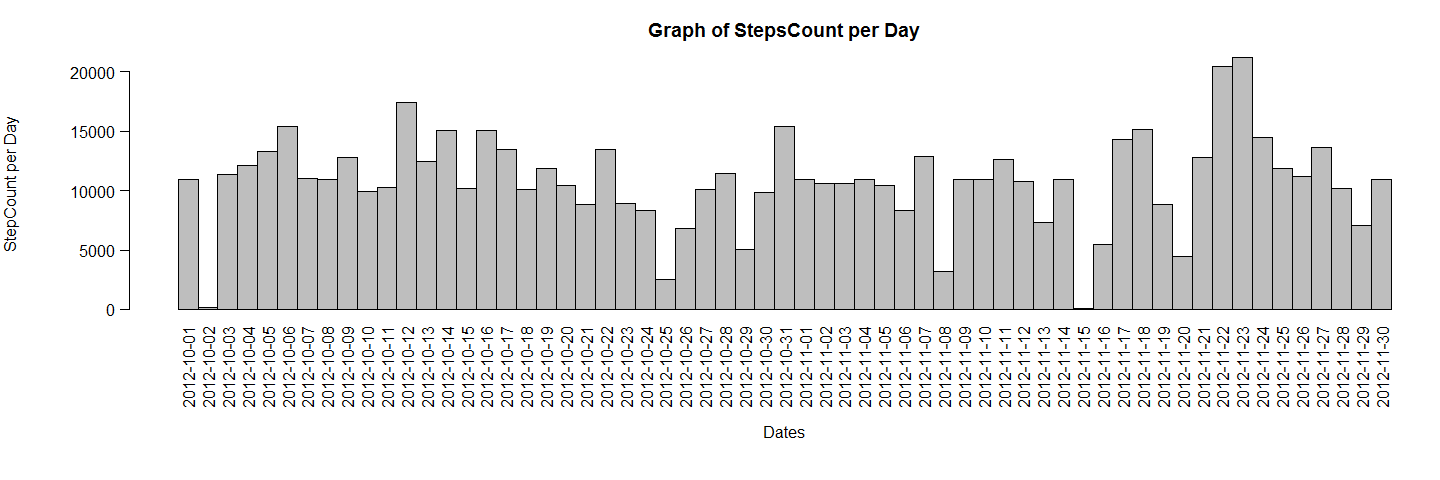
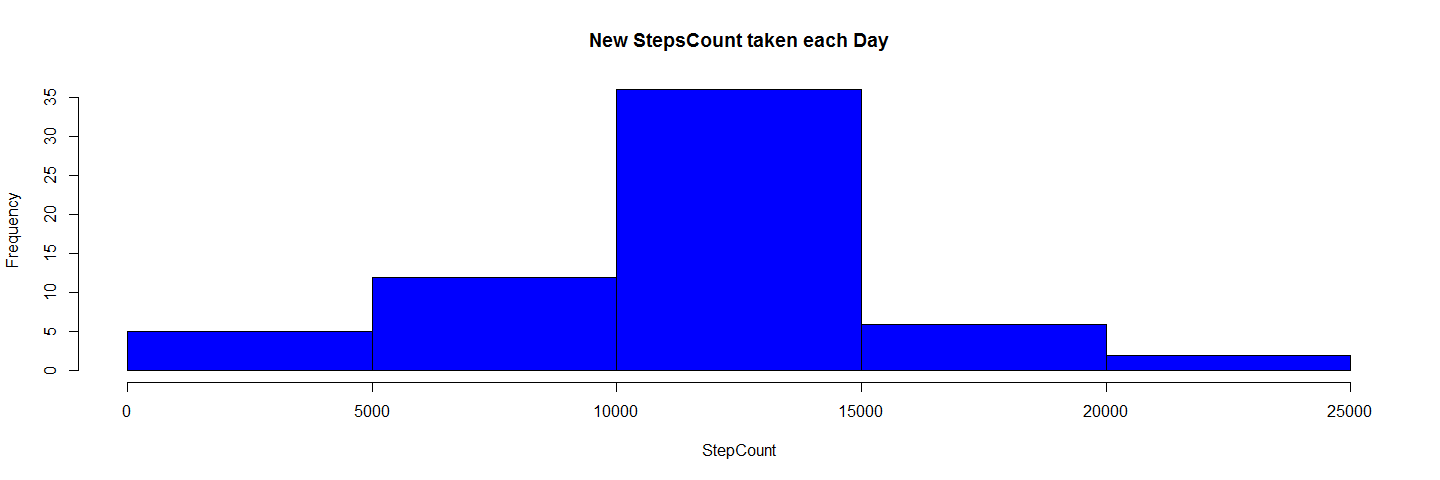
upon reading discussion forums changing bar charts to Histograms :)

diff --git a/PA1_template.html b/PA1_template.html
@@ -79,19 +79,9 @@ if (window.hljs && document.readyState && document.readyState === "complete") {
 <ol start="2" style="list-style-type: decimal">
 <li>Creating histogram of daily Step Data</li>
 </ol>
-<pre class="r"><code>with(dailyStepSum, {
-        par(oma=c(2,0,0,0), mar=c(6.75,6.75,3,0), mgp=c(5.75,0.75,0), las=2)
-        barplot(
-                height=Steps,
-                main=&quot;Total Steps taken per Day&quot;,
-                xlab=&quot;Date&quot;,
-                ylab=&quot;Step count per Day&quot;,
-                names.arg=Date,
-                space=c(0)
-        )
-})</code></pre>
+<pre class="r"><code> hist(dailyStepSum$Steps,col=&quot;blue&quot;,xlab=&quot;StepCount&quot;,ylab=&quot;Frequency&quot;,main=&quot;StepsCount taken each Day&quot;)</code></pre>
 <div class="figure">
[2 lines of base64/hex data omitted]
 </div>
 <ol start="3" style="list-style-type: decimal">
 <li><p>Calculating the mean and median values (ignoring NA values) using the daily step count dataset.</p></li>
@@ -188,29 +178,17 @@ colnames(newData) &lt;- c(&quot;Steps&quot;, &quot;Date&quot;, &quot;Interval&qu
 <ol start="4" style="list-style-type: decimal">
 <li>A histogram of the above data is created as a form of visual representation.</li>
 </ol>
-<pre class="r"><code>with(newDailyStepSum, {
-        par(oma=c(2,0,0,0), mar=c(6.75,6.75,3,0), mgp=c(5.75,0.75,0), las=2)
-        barplot(
-                height=Steps,
-                main=&quot;Graph of StepsCount per Day&quot;,
-                xlab=&quot;Dates&quot;,
-                ylab=&quot;StepCount per Day&quot;,
-                names.arg=Date,
-                space=c(0)
-        )
-})</code></pre>
+<pre class="r"><code> hist(newDailyStepSum$Steps,col=&quot;blue&quot;,xlab=&quot;StepCount&quot;,ylab=&quot;Frequency&quot;,main=&quot;New StepsCount taken each Day&quot;)</code></pre>
 <div class="figure">
[2 lines of base64/hex data omitted]
 </div>
 <ol start="5" style="list-style-type: decimal">
-<li><p>Calculate the mean and median values of this new dataset (NA values replaced with mean).</p></li>
-<li><p>Mean</p></li>
+<li>Calculate the mean and median values of this new dataset (NA values replaced with mean).</li>
 </ol>
+<p>Mean of new dataset</p>
 <pre class="r"><code>newDailyStepMean &lt;- mean(newDailyStepSum$Steps)</code></pre>
 <pre><code>## [1] 10784.92</code></pre>
-<ol start="2" style="list-style-type: decimal">
-<li>Median</li>
-</ol>
+<p>Median of new dataset</p>
 <pre class="r"><code>newDailyStepMedian &lt;- median(newDailyStepSum$Steps)</code></pre>
 <pre><code>## [1] 10909</code></pre>
 <p>Observation : Adding the missing values to the original data has caused both the mean and median values to increase.</p>
@@ -221,10 +199,7 @@ colnames(newData) &lt;- c(&quot;Steps&quot;, &quot;Date&quot;, &quot;Interval&qu
 </div>
 <div id="are-there-differences-in-activity-patterns-between-weekdays-and-weekends" class="section level2">
 <h2>Are there differences in activity patterns between weekdays and weekends?</h2>
-<blockquote>
-<p>For this part the weekdays() function may be of some help here. Use the dataset with the filled-in missing values for this part. 1. Create a new factor variable in the dataset with two levels - “weekday” and “weekend” indicating whether a given date is a weekday or weekend day. 2. Make a panel plot containing a time series plot (i.e. type = “l”) of the 5-minute interval (x-axis) and the average number of steps taken, averaged across all weekday days or weekend days (y-axis). The plot should look something like the following, which was creating using simulated data:</p>
-</blockquote>
-<pre><code>    1.  A new column indicating whether the date is a weekday or a weekend is added to the new dataset created in the previous section.</code></pre>
+<p>A new column indicating whether the date is a weekday or a weekend is added to the new dataset created in the previous section.</p>
 <pre class="r"><code>dateDayType &lt;- data.frame(sapply(X=newData$Date, FUN=function(day) {
         if (weekdays(as.Date(day)) %in% c(&quot;Monday&quot;, &quot;Tuesday&quot;, &quot;Wednesday&quot;, &quot;Thursday&quot;, &quot;Friday&quot;)) {
                 day &lt;- &quot;weekday&quot;
@@ -238,14 +213,12 @@ newDataWithDayType &lt;- cbind(newData, dateDayType)
 
 colnames(newDataWithDayType) &lt;- c(&quot;Steps&quot;, &quot;Date&quot;, &quot;Interval&quot;, &quot;DayType&quot;)</code></pre>
 <p>First 5 rows of new data:</p>
-<pre><code>    ```
-    ##   Steps       Date Interval DayType
-    ## 1     2 2012-10-01        0 weekday
-    ## 2     1 2012-10-01        5 weekday
-    ## 3     1 2012-10-01       10 weekday
-    ## 4     1 2012-10-01       15 weekday
-    ## 5     1 2012-10-01       20 weekday
-    ```</code></pre>
+<pre><code>##   Steps       Date Interval DayType
+## 1     2 2012-10-01        0 weekday
+## 2     1 2012-10-01        5 weekday
+## 3     1 2012-10-01       10 weekday
+## 4     1 2012-10-01       15 weekday
+## 5     1 2012-10-01       20 weekday</code></pre>
 <ol start="2" style="list-style-type: decimal">
 <li>The data is then separated into weekday or weekend and the mean (average) number of steps taken for each 5-minute interval, itself averaged across all weekday days or weekend days is calculated.</li>
 </ol>

diff --git a/PA1_template.md b/PA1_template.md
@@ -42,17 +42,7 @@ First 5 rows of daily Step Sum data:
 
 
 ```r
-with(dailyStepSum, {
-        par(oma=c(2,0,0,0), mar=c(6.75,6.75,3,0), mgp=c(5.75,0.75,0), las=2)
-        barplot(
-                height=Steps,
-                main="Total Steps taken per Day",
-                xlab="Date",
-                ylab="Step count per Day",
-                names.arg=Date,
-                space=c(0)
-        )
-})
+ hist(dailyStepSum$Steps,col="blue",xlab="StepCount",ylab="Frequency",main="StepsCount taken each Day")
 ```
 
 ![](./PA1_template_files/figure-html/unnamed-chunk-5-1.png) 
@@ -200,24 +190,14 @@ newDailyStepSum <- aggregate(newData$Steps, list(newData$Date), sum)
 
 
 ```r
-with(newDailyStepSum, {
-        par(oma=c(2,0,0,0), mar=c(6.75,6.75,3,0), mgp=c(5.75,0.75,0), las=2)
-        barplot(
-                height=Steps,
-                main="Graph of StepsCount per Day",
-                xlab="Dates",
-                ylab="StepCount per Day",
-                names.arg=Date,
-                space=c(0)
-        )
-})
+ hist(newDailyStepSum$Steps,col="blue",xlab="StepCount",ylab="Frequency",main="New StepsCount taken each Day")
 ```
 
 ![](./PA1_template_files/figure-html/unnamed-chunk-21-1.png) 
 
 5. Calculate the mean and median values of this new dataset (NA values replaced with mean).
 
-1. Mean
+Mean of new dataset
 
 ```r
 newDailyStepMean <- mean(newDailyStepSum$Steps)
@@ -226,7 +206,7 @@ newDailyStepMean <- mean(newDailyStepSum$Steps)
 ```
 ## [1] 10784.92
 ```
-2. Median
+Median of new dataset
 
 ```r
 newDailyStepMedian <- median(newDailyStepSum$Steps)
@@ -247,11 +227,8 @@ Adding the missing values to the original data has caused both the mean and medi
 
 
 ## Are there differences in activity patterns between weekdays and weekends?
->For this part the weekdays() function may be of some help here. Use the dataset with the filled-in missing values for this part.
-1. Create a new factor variable in the dataset with two levels - "weekday" and "weekend" indicating whether a given date is a weekday or weekend day.
-2. Make a panel plot containing a time series plot (i.e. type = "l") of the 5-minute interval (x-axis) and the average number of steps taken, averaged across all weekday days or weekend days (y-axis). The plot should look something like the following, which was creating using simulated data:
 
-        1.  A new column indicating whether the date is a weekday or a weekend is added to the new dataset created in the previous section.
+A new column indicating whether the date is a weekday or a weekend is added to the new dataset created in the previous section.
 
 
 ```r
@@ -270,15 +247,15 @@ colnames(newDataWithDayType) <- c("Steps", "Date", "Interval", "DayType")
 ```
 
 First 5 rows of new data:
-        
-        ```
-        ##   Steps       Date Interval DayType
-        ## 1     2 2012-10-01        0 weekday
-        ## 2     1 2012-10-01        5 weekday
-        ## 3     1 2012-10-01       10 weekday
-        ## 4     1 2012-10-01       15 weekday
-        ## 5     1 2012-10-01       20 weekday
-        ```
+
+```
+##   Steps       Date Interval DayType
+## 1     2 2012-10-01        0 weekday
+## 2     1 2012-10-01        5 weekday
+## 3     1 2012-10-01       10 weekday
+## 4     1 2012-10-01       15 weekday
+## 5     1 2012-10-01       20 weekday
+```
 2. The data is then separated into weekday or weekend and the mean (average) number of steps taken for each 5-minute interval, itself averaged across all weekday days or weekend days is calculated.
 
 
